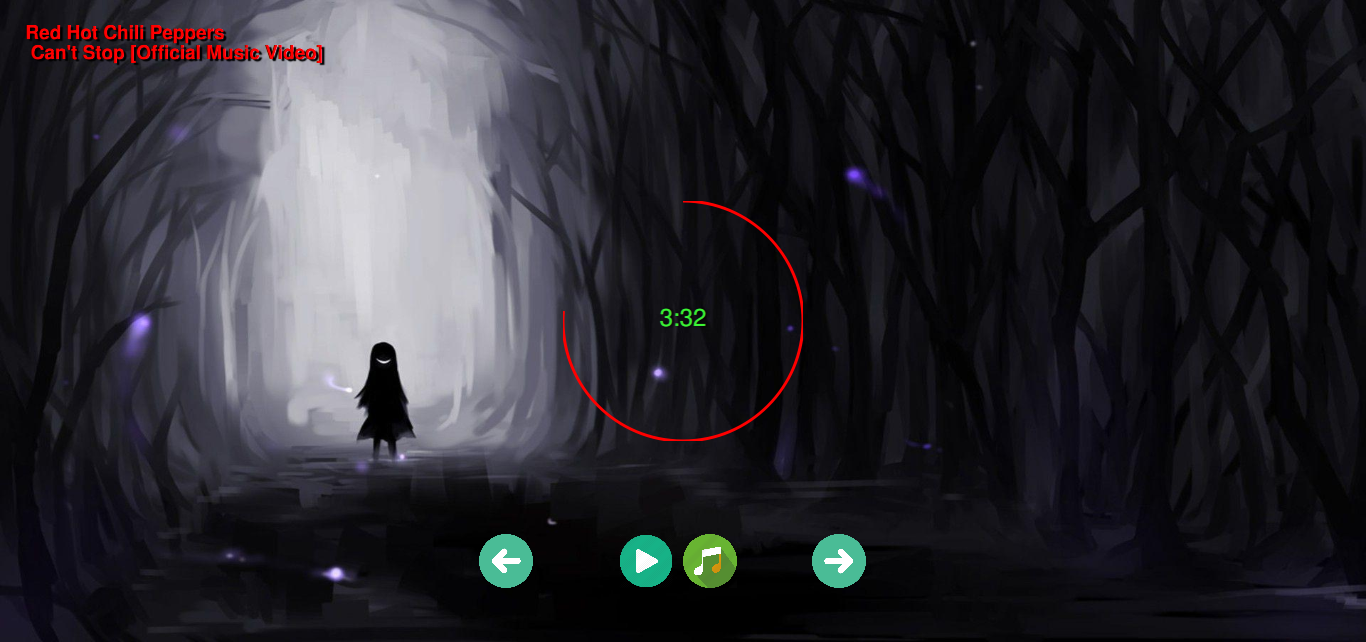
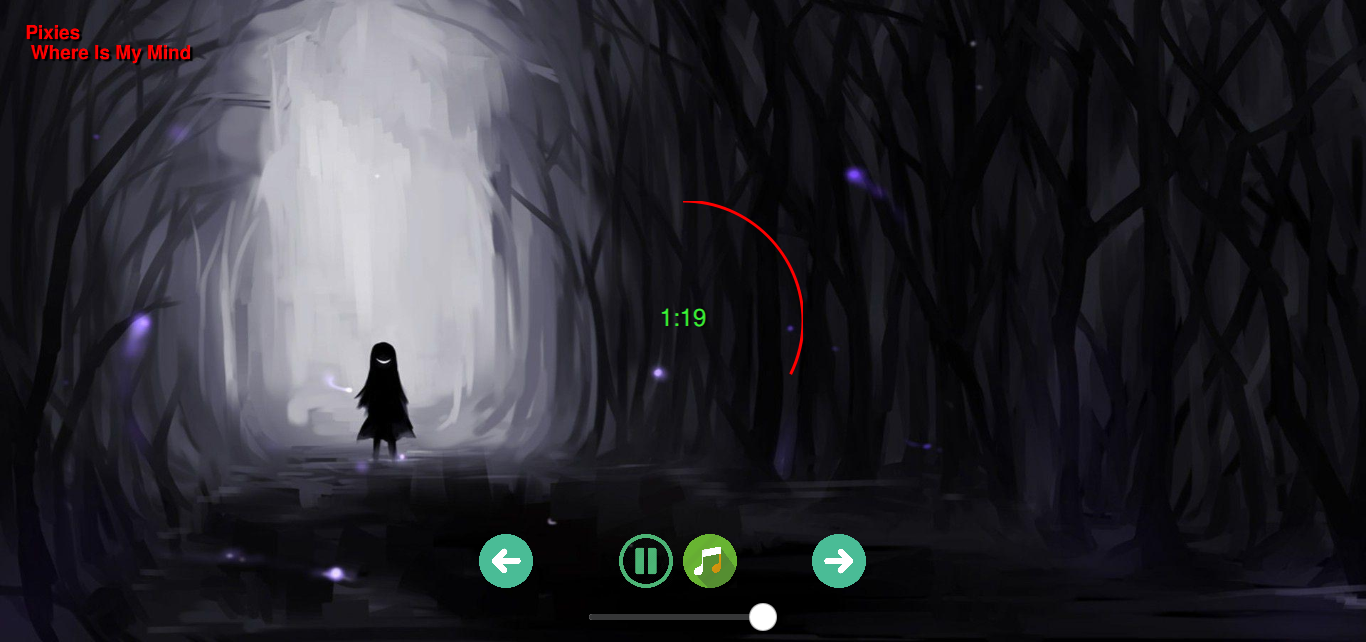
add music volume slider

diff --git a/AudioPlayer/main.qml b/AudioPlayer/main.qml
@@ -5,6 +5,7 @@ import QtQuick.Dialogs 1.2
 import QtGraphicalEffects 1.0
 import QtQuick.Scene3D 2.0
 import Qt.labs.folderlistmodel 2.2
+import QtQuick.Controls 2.2
 import "./content"
 
 Item{
@@ -245,5 +246,32 @@ Item{
             anchors.fill: parent
             onClicked: nextSong()
         }
+    }
+
+    function formatVolumeToBetterRead(volume){
+        var getVolume = volume
+        getVolume *= 100
+        getVolume = Math.floor(getVolume)
+        getVolume = getVolume.toString() + "%"
+        return getVolume
+    }
+
+    Slider{
+        id: musicVolume
+        value: mediaPlayer.volume
+        anchors.bottom: parent.bottom
+        anchors.bottomMargin: 5
+        anchors.horizontalCenter: parent.horizontalCenter
+        onValueChanged: mediaPlayer.volume = musicVolume.value
+    }
+
+    Text{
+        id: volumeShow
+        anchors.bottom: parent.bottom
+        anchors.bottomMargin: 3
+        anchors.horizontalCenter: musicVolume.horizontalCenter
+        color: "green"
+        text: formatVolumeToBetterRead(musicVolume.value)
+        visible: musicVolume.hovered
     }
 }
